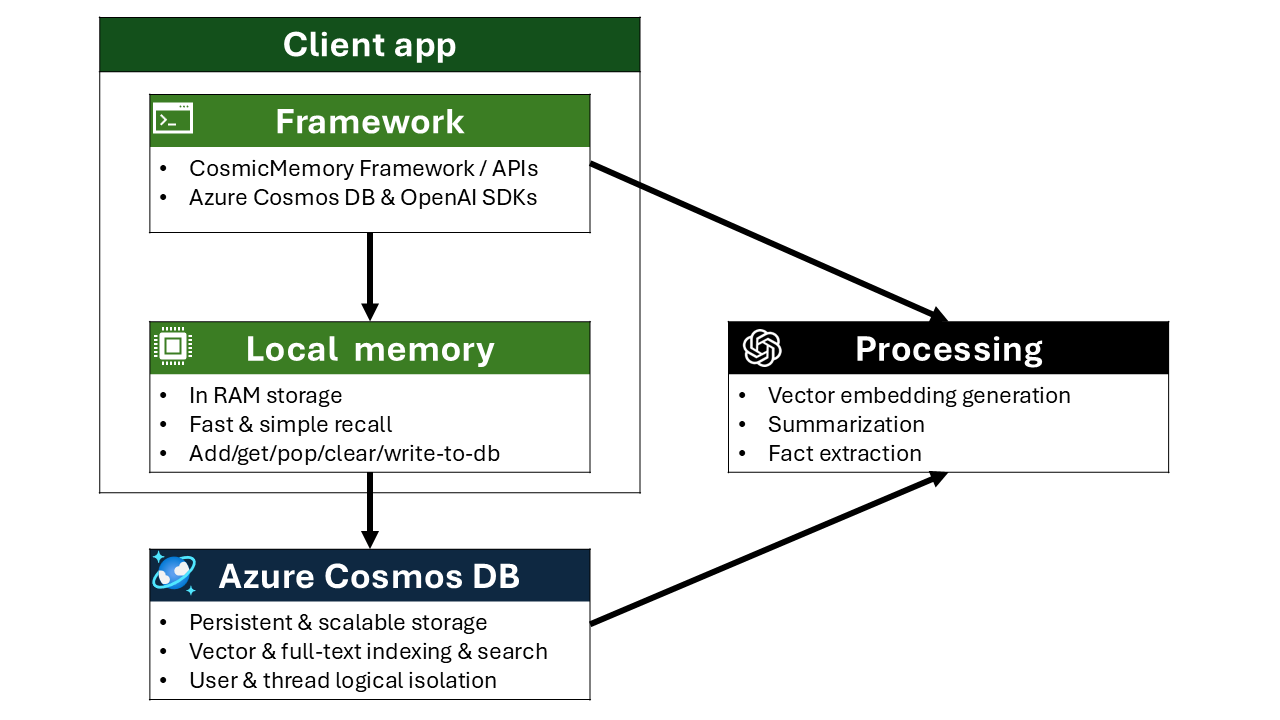
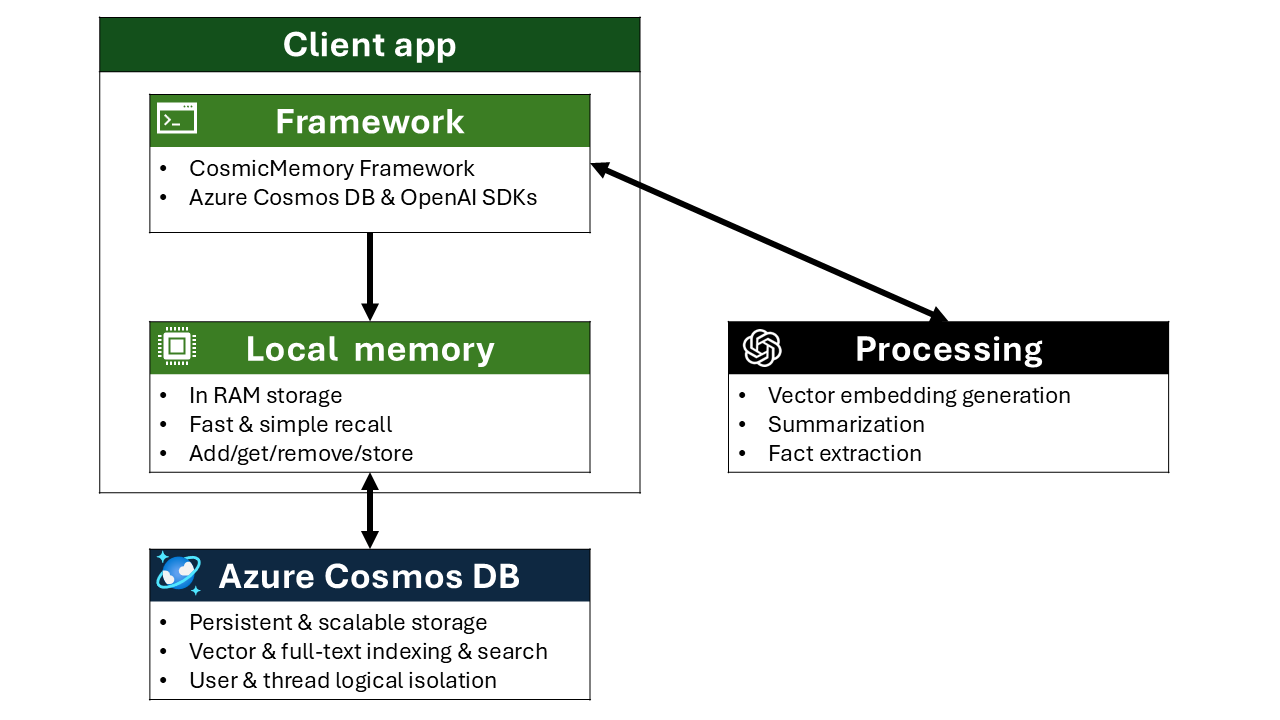
added test.py and updates readme

diff --git a/test.py b/test.py
@@ -1,0 +1,125 @@
+
+from agent_framework.azure import AzureOpenAIChatClient
+from azure.identity import DefaultAzureCredential
+from cosmic_memory import CosmicMemory
+import asyncio
+import argparse
+import uuid
+
+# Create instance and configure
+memory = CosmicMemory()
+memory.load_config()
+memory.clear_local()
+
+system_instructions = """
+        You are a helpful AI assistant. 
+        Provide clear, concise, and friendly responses to user questions.
+        Be conversational and helpful.
+        
+        You will receive relevant conversation history as context before each user message.
+        Use this context to provide more informed and contextual responses.
+
+        If the user asks what were talking about, provide an overview and summary in your own words. 
+
+        Keep responses relatively short, no more than 50 words.
+
+        If you need to lookup something, or the user asks you to search for something, use the semantic_retrieval tool to find relevant information.
+        """
+
+
+async def chat_loop(thread_id=None, user_id=None):
+
+    # Create the agent
+    print("🤖 Initializing agent...")
+    # Create Azure OpenAI client with Entra ID authentication
+    agent = AzureOpenAIChatClient(endpoint=memory.openai_endpoint,
+                        deployment_name=memory.openai_completions_model,
+                        credential=DefaultAzureCredential()).create_agent(
+    instructions=system_instructions,
+    name="Assistant")
+     
+    print("✅ Agent ready! Start chatting (type 'quit', 'exit', or 'bye' to end)\n")
+    print("=" * 60)
+    
+    # Load existing conversation from Cosmos DB into the stack
+    print(f"📥 Loading conversation history for user '{user_id}' and thread '{thread_id}' from Azure Cosmos DB...")
+    existing_summary = memory.get_summary_db(thread_id, return_details=False)
+
+    if existing_summary and 'summary' in existing_summary:
+        print(f"✅ Loaded previous conversation summary")
+        # Add the summary as a structured item to local memory
+
+    else:
+        print("📝 Starting new conversation (no previous history found)")
+    
+    print("=" * 60)
+    
+    # Conversation loop
+    while True:
+        # Get user input
+        user_input = input("\n🧍 You: ").strip()
+                
+        # Check for exit commands
+        if user_input.lower() in ['quit', 'exit', 'bye', 'q']:
+            print("\n👋 Goodbye! Chat session ended.")
+            print("💾 Saving conversation to Azure Cosmos DB...")
+            memory.add_local_to_db(user_id=user_id, thread_id=thread_id)
+            print("✅ Conversation saved successfully!")
+            break
+        
+        # Skip empty inputs
+        if not user_input:
+            continue
+        
+        try:
+
+            # Get relevant memories from the stack for context
+            conversation_history = memory.get_local(k=20,user_id=user_id, thread_id=thread_id)
+   
+            # Combine memories with user input
+            combined_prompt = f"""
+            Previous conversation context: {conversation_history}
+
+            Current user message: {user_input}
+            """
+
+            # Get agent response with context
+            result = await agent.run(combined_prompt)
+
+            agent_response = str(result)
+            
+            # Print the response
+            print(f"\n🤖 Assistant: {agent_response}")
+            print("-" * 60)
+            
+            # Add conversation turn to memory stack
+            conversation_turn = [
+                {"role": "user", "content": user_input},
+                {"role": "agent", "content": agent_response}
+            ]
+            memory.add_local(conversation_turn, user_id=user_id, thread_id=thread_id)
+                        
+        except Exception as e:
+            print(f"\n❌ Error: {e}")
+            print("Please try again or type 'quit' to exit.")
+
+if __name__ == "__main__":
+    # Parse command-line arguments
+    parser = argparse.ArgumentParser(description="Chat with an AI assistant using CosmicMemory")
+    parser.add_argument("-t", "--thread", dest="thread_id", default=None, help="Thread ID for the conversation (auto-generated if not provided)")
+    parser.add_argument("-u", "--user", dest="user_id", default=None, help="User ID for the conversation (auto-generated if not provided)")
+    
+    args = parser.parse_args()
+    
+    # Generate GUIDs if not provided
+    thread_id = args.thread_id if args.thread_id else str(uuid.uuid4())
+    user_id = args.user_id if args.user_id else str(uuid.uuid4())
+    
+    # Print the IDs being used
+    if not args.thread_id:
+        print(f"📝 Generated Thread ID: {thread_id}")
+    if not args.user_id:
+        print(f"📝 Generated User ID: {user_id}")
+    
+    # Run the async chat loop with provided arguments
+    asyncio.run(chat_loop(thread_id=thread_id, user_id=user_id))

diff --git a/README.md b/README.md
@@ -8,7 +8,7 @@
 [![YouTube](https://img.shields.io/badge/YouTube-Azure%20Cosmos%20DB-FF0000?logo=youtube&logoColor=white)](https://www.youtube.com/@AzureCosmosDB)
 
  
-> **⚠ Important:** This repository is provided as is. No guarantees exist regarding maintenance, bug fixes, continued development, or supportability. However, you're welcome to this code as a starting point or inspiration for your own implementations.
+> **⚠ Important:** This repository is provided as is. No guarantees exist regarding performance, maintenance, bug fixes, continued development, or supportability. However, you're welcome to this code as a starting point or inspiration for your own implementations.
 
 CosmicMemory is a memory **sample** framework for AI agents that implements a two-tier memory architecture: **short-term memories** for active conversation threads and **long-term memories** for efficient context retrieval.
 
@@ -33,6 +33,7 @@ CosmicMemory/
 │   ├── cosmos_interface.py  # Azure Cosmos DB operations
 │   └── processing.py        # Embedding generation and AI processing
 ├── mem_test.ipynb           # Usage examples and testing
+├── test.py                  # Command-line test application
 └── README.md
 ```
 
@@ -54,6 +55,7 @@ CosmicMemory/
   - [Search and Retrieve Memories](#search-and-retrieve-memories)
   - [Summarize Conversations](#summarize-conversations)
   - [Delete Memories](#delete-memories)
+- [Test Application](#test-application)
 - [Data Models](#data-models)
 - [Usage Guidance](#usage-guidance)
 - [API Reference](#api-reference)
@@ -88,6 +90,21 @@ For memories written to Azure Cosmos DB, take advantage of advanced and semantic
 - **Entra ID Authentication** 🔐 - Secure access using Azure's identity platform
 - **Vector Embeddings** 🔢 - Automatic embedding generation using Azure OpenAI for semantic search capabilities
 
+
+## Test Application
+
+The `test.py` file provides a command-line interface for testing CosmicMemory functionality with an interactive AI chat session. It demonstrates real-world usage patterns including conversation history loading, memory persistence, and agent integration.
+
+**Usage:**
+```bash
+# Run with specific thread and user IDs
+python test.py -t "my-thread-123" -u "user-456"
+
+# Auto-generate IDs if not provided
+python test.py
+```
+
+The test application automatically loads previous conversation summaries, maintains conversation context, and saves new interactions to Azure Cosmos DB when the session ends.
 
 ## Data Models
 
@@ -180,32 +197,14 @@ from cosmic_memory import CosmicMemory
 # Create instance
 memory = CosmicMemory()
 
-# Option 1: Load configuration from .env file or environment variables
+# Load configuration from .env file or environment variables
 memory.load_config()  # Loads from .env in current directory, and automatically connects to Cosmos DB and Azure OpenAI
 # or
 memory.load_config('.env')  # Loads from specific file, and automatically connects to Cosmos DB and Azure OpenAI
-
-# Option 2: Configure Azure resources manually
-memory.subscription_id = "your-subscription-id"
-memory.resource_group_name = "your-resource-group"
-memory.account_name = "your-cosmos-account-name"
-memory.cosmos_db_endpoint = "https://your-account.documents.azure.com:443/"
-memory.cosmos_db_database = "your-database"
-memory.cosmos_db_container = "your-container"
-memory.openai_endpoint = "https://your-openai.openai.azure.com/"
-memory.openai_completions_model = "completions-deployment-name"
-memory.openai_embedding_model = "embedding-deployment-name"
-memory.openai_embedding_dimensions = 512  # desired dimension for embeddings model
-# Enable vector indexing for semantic search
-memory.vector_index = True
-
-# When configuring manually, you must explicitly connect to both services
-memory.connect_to_cosmosdb()
-memory.connect_to_openai()
 ```
 
 **Note on Connection Management:**  
-CosmicMemory uses single reusable client connections for both Cosmos DB and Azure OpenAI that are initialized when you call `load_config()` or the individual `connect_to_*()` methods. These connections are reused across all operations, eliminating redundant authentication overhead and dramatically improving performance.
+CosmicMemory uses single reusable client connections for both Cosmos DB and Azure OpenAI that are initialized when you call `load_config()` or the individual `connect_to_*()` methods. These connections are reused across all operations, eliminating redundant authentication overhead, thus improving performance.
 
 **Environment Variables for `load_config()`:**
 
